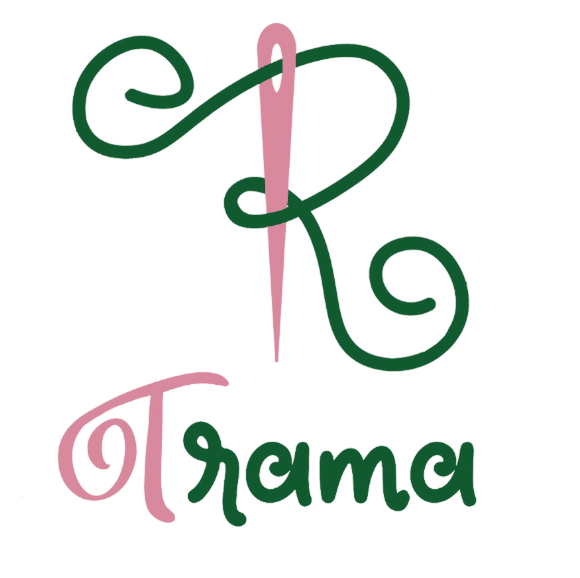
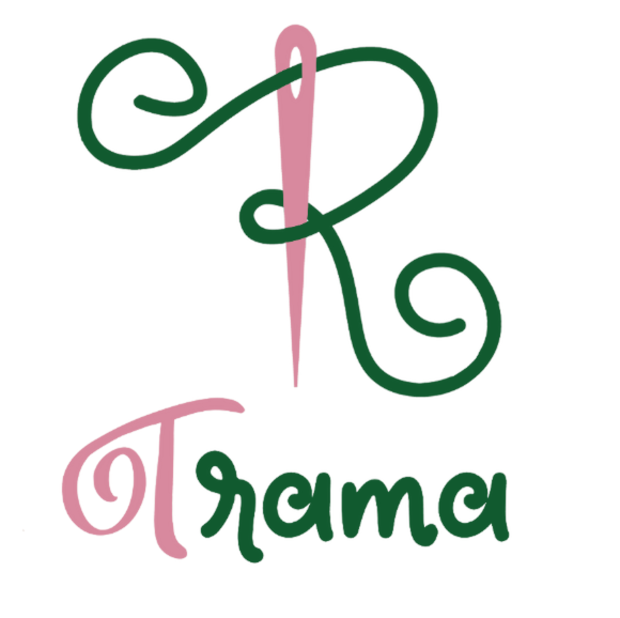
cores

diff --git a/app/templates/dashboard.html b/app/templates/dashboard.html
@@ -7,14 +7,13 @@
 {% block content %}
     <div class="container-fluid" style="min-height: 100vh; margin-top: 20px; display: flex; flex-direction: column;">
         <!-- Page Heading -->
-        <h1 class="welcome-title text-center" style="margin-top: 30px;">Bem-Vinda, Danielle</h1>
+        <h1 class="welcome-title text-center" style="margin-top: 10px;">Bem-Vinda, Danielle</h1>
 
         <!-- Grid com 2 seções -->
         <div class="row justify-content-center align-items-stretch" style="flex-grow: 1; background-color: transparent;">
             <!-- Seção do Calendário -->
-            <div class="col-lg-6 col-md-8 col-sm-12 mb-4 d-flex" style="background-color: transparent;">
+            <div class="col-lg-6 col-md-8 col-sm-12 mb-4 d-flex" style="background-color: #D98BA755; color: black;border-radius: 10px; border: none;padding: 0; max-height: 600px;overflow-y: auto;">
                 <div class="flex-grow-1" style="display: flex; flex-direction: column; height: 100%;">
-                    <h6 class="welcome-title-lower text-center" style="margin-top: 30px;">Calendário</h6>
                     <div class="card-body" style="flex-grow: 1; border: 1px solid #dee2e6; border-radius: 8px; box-shadow: 0 2px 10px rgba(0, 0, 0, 0.1);">
                         <div id="calendar" style="min-height: 500px;"></div>
                     </div>
@@ -24,13 +23,14 @@
             <!-- Seção da Tabela de Trabalhos com Expiração -->
             <div class="col-lg-6 col-md-8 col-sm-12 mb-4 d-flex" style="background-color: transparent;">
                 <div class="flex-grow-1" style="display: flex; flex-direction: column; height: 100%;">
-                    <h6 class="welcome-title-lower text-center" style="margin-top: 30px;">Relatório de Atividades</h6>
+                    
                     
                     <!-- Tornar a tabela clicável -->
                     <a href="{% url 'manguetown:gestao_trabalho' %}" style="display: flex; flex-grow: 1; text-decoration: none; color: inherit;">
                         <div class="card-body clickable-table" style="flex-grow: 1; min-height: 500px; overflow-y: auto; border: 1px solid #dee2e6; border-radius: 8px; box-shadow: 0 2px 10px rgba(0, 0, 0, 0.1);">
                             <table class="table">
-                                <thead class="corTabela">
+                                <h6 class="welcome-title-lower text-center" style="margin-top: 30px;">Relatório de Atividades</h6>
+                                <thead class="corTabelaDashboard">
                                     <tr>
                                         <th scope="col">Colaborador</th>
                                         <th scope="col">Boneca</th>
@@ -41,16 +41,16 @@
                                 <tbody>
                                     {% for trabalho in trabalhos %}
                                         <tr>
-                                            <td style="background-color: #EBCEB555; color: black;">
+                                            <td style="background-color: #D98BA755; color: black; border:1px solid #f5a3b5">
                                                 {% for colaborador in trabalho.colaboradores.all %}
                                                     <span>{{ colaborador.nome }}</span>{% if not forloop.last %}<br>{% endif %}
                                                 {% empty %}
                                                     Nenhum colaborador associado
                                                 {% endfor %}
                                             </td>
-                                            <td style="background-color: #EBCEB555; color: black;">{{ trabalho.boneca.nome }}</td>
-                                            <td style="background-color: #EBCEB555; color: black;">{{ trabalho.quantidade }}</td>
-                                            <td style="background-color: #EBCEB555; color: black;">{{ trabalho.data_previsao }}</td>    
+                                            <td style="background-color: white; color: black; border:1px solid #f5a3b5">{{ trabalho.boneca.nome }}</td>
+                                            <td style="background-color: white; color: black;border:1px solid #f5a3b5">{{ trabalho.quantidade }}</td>
+                                            <td style="background-color: white; color: black;border:1px solid #f5a3b5">{{ trabalho.data_previsao }}</td>    
                                         </tr>
                                     {% empty %}
                                         <tr>
@@ -89,6 +89,36 @@
             cursor: pointer;
             transform: scale(1.02); /* Efeito de aumento ao passar o mouse */
             box-shadow: 0 4px 15px rgba(0, 0, 0, 0.2); /* Sombra mais forte no hover */
+        }
+
+            /* Torna todos os textos do calendário pretos */
+            .fc-event,                /* Texto dos eventos */
+            .fc-daygrid-day-number,   /* Números dos dias */
+            .fc-toolbar-title,        /* Título do mês */
+            .fc-header-toolbar button, /* Botões do cabeçalho */
+            .fc-daygrid-event-dot,    /* Texto dos eventos compactados */
+            .fc-daygrid-day-top,      /* Cabeçalho do dia */
+            .fc-daygrid-day
+            .fc-col-header-cell,          
+            .fc-daygrid-day-events {  
+            color: black !important;
+        }
+
+        /* Botões e textos do cabeçalho */
+        .fc-header-toolbar button {
+            color: white !important;
+            border-color: black !important;
+        }
+
+        /* Dias inativos (fora do mês atual) */
+        .fc-day-other {
+            color: #6c757d !important; /* Cinza escuro para dias inativos */
+        }
+
+        /* Torna os textos dos dias da semana pretos */
+        .fc-col-header-cell,        /* Dias da semana no cabeçalho */
+        .fc-col-header-cell span {  /* Texto dentro do cabeçalho */
+            color: black !important;
         }
     </style>
 

diff --git a/app/templates/gestao_doadores.html b/app/templates/gestao_doadores.html
@@ -40,17 +40,17 @@
         <tbody>
             {% for doador in doadores %}
             <tr>
-                <td style="background-color: #EBCEB555; color: black;">{{ doador.nome }}</td>
-                <td style="background-color: #EBCEB555; color: black;">{{ doador.cpf }}</td>
-                <td style="background-color: #EBCEB555; color: black;">{{ doador.data_nascimento }}</td>
-                <td style="background-color: #EBCEB555; color: black;">{{ doador.lugar_onde_mora }}</td>
-                <td style="background-color: #EBCEB555; color: black;">{{ doador.individual|yesno:"Sim,Não" }}</td>
-                <td style="background-color: #EBCEB555; color: black;">{{ doador.tipo_doador }}</td>
-                <td style="background-color: #EBCEB555; color: black;">{{ doador.data_disponibilidade|default:"N/A" }}</td>
-                <td style="background-color: #EBCEB555; color: black;">{{ doador.local_captacao|default:"N/A" }}</td>
-                <td style="background-color: #EBCEB555; color: black;">{{ doador.condicao_residuo|default:"N/A" }}</td>
-                <td style="background-color: #EBCEB555; color: black;">{{ doador.tipo_residuo|default:"N/A" }}</td>
-                <td style="background-color: #EBCEB555; color: black;">
+                <td style="background-color: #EBCEB555; color: black;border:1px solid black">{{ doador.nome }}</td>
+                <td style="background-color: #EBCEB555; color: black;border:1px solid black">{{ doador.cpf }}</td>
+                <td style="background-color: #EBCEB555; color: black;border:1px solid black">{{ doador.data_nascimento }}</td>
+                <td style="background-color: #EBCEB555; color: black;border:1px solid black">{{ doador.lugar_onde_mora }}</td>
+                <td style="background-color: #EBCEB555; color: black;border:1px solid black">{{ doador.individual|yesno:"Sim,Não" }}</td>
+                <td style="background-color: #EBCEB555; color: black;border:1px solid black">{{ doador.tipo_doador }}</td>
+                <td style="background-color: #EBCEB555; color: black;border:1px solid black">{{ doador.data_disponibilidade|default:"N/A" }}</td>
+                <td style="background-color: #EBCEB555; color: black;border:1px solid black">{{ doador.local_captacao|default:"N/A" }}</td>
+                <td style="background-color: #EBCEB555; color: black;border:1px solid black">{{ doador.condicao_residuo|default:"N/A" }}</td>
+                <td style="background-color: #EBCEB555; color: black;border:1px solid black">{{ doador.tipo_residuo|default:"N/A" }}</td>
+                <td style="background-color: #EBCEB555; color: black;border:1px solid black">
                     <!-- Dropdown para ações -->
                     <select class="form-select action-select custom-select" data-doador-id="{{ doador.id }}">
                         <option value="">Escolha ação</option>

diff --git a/app/templates/gestao_colaboradores.html b/app/templates/gestao_colaboradores.html
@@ -41,16 +41,16 @@
             <tbody>
                 {% for colaborador in colaboradores %}
                 <tr>
-                    <td style="background-color: #EBCEB555; color: black;">{{ colaborador.nome }}</td>
-                    <td style="background-color: #EBCEB555; color: black;">{{ colaborador.cpf }}</td>
-                    <td style="background-color: #EBCEB555; color: black;">{{ colaborador.data_nascimento }}</td>
-                    <td style="background-color: #EBCEB555; color: black;">{{ colaborador.lugar_onde_mora }}</td>
-                    <td style="background-color: #EBCEB555; color: black;">{{ colaborador.renda }}</td>
-                    <td style="background-color: #EBCEB555; color: black;">{{ colaborador.situacoes_de_vulnerabilidade }}</td>
-                    <td style="background-color: #EBCEB555; color: black;">{{ colaborador.quantos_filhos }}</td>
-                    <td style="background-color: #EBCEB555; color: black;">{{ colaborador.quantas_pessoas_moram_com_voce }}</td>
-                    <td style="background-color: #EBCEB555; color: black;">{{ colaborador.habilidades }}</td>
-                    <td style="background-color: #EBCEB555; color: black;"> 
+                    <td style="background-color: #EBCEB555; color: black;border:1px solid black">{{ colaborador.nome }}</td>
+                    <td style="background-color: #EBCEB555; color: black;border:1px solid black">{{ colaborador.cpf }}</td>
+                    <td style="background-color: #EBCEB555; color: black;border:1px solid black">{{ colaborador.data_nascimento }}</td>
+                    <td style="background-color: #EBCEB555; color: black;border:1px solid black">{{ colaborador.lugar_onde_mora }}</td>
+                    <td style="background-color: #EBCEB555; color: black;border:1px solid black">{{ colaborador.renda }}</td>
+                    <td style="background-color: #EBCEB555; color: black;border:1px solid black">{{ colaborador.situacoes_de_vulnerabilidade }}</td>
+                    <td style="background-color: #EBCEB555; color: black;border:1px solid black">{{ colaborador.quantos_filhos }}</td>
+                    <td style="background-color: #EBCEB555; color: black;border:1px solid black">{{ colaborador.quantas_pessoas_moram_com_voce }}</td>
+                    <td style="background-color: #EBCEB555; color: black;border:1px solid black">{{ colaborador.habilidades }}</td>
+                    <td style="background-color: #EBCEB555; color: black;border:1px solid black"> 
                         <!-- Dropdown para ações -->
                         <select class="form-select action-select custom-select" data-colaborador-id="{{ colaborador.id }}">
                             <option value="">Escolha ação</option>

diff --git a/app/templates/login.html b/app/templates/login.html
@@ -36,17 +36,21 @@
             height: 170px;
             width: 170px;
             top: -75px;
-            border-radius: 50%;
-            background: white;
-            padding: 10px;
+            border-radius: 100%;
+            background: #D98BA755;
+            padding: 14px;
             text-align: center;
+            opacity: 1 !important;
         }
         .brand_logo {
-            height: 150px;
-            width: 150px;
+            height: calc(100% + 28px); /* Subtraia a espessura da borda */
+            width: calc(100% + 28px);
             border-radius: 50%;
-            border: 2px solid white;
-            
+            border: 8px solid white;
+            margin-top: -14px; /* Ajusta o alinhamento vertical */
+            margin-left: -14px; /* Ajusta o alinhamento horizontal */
+            object-fit: contain; /* Ajusta a imagem dentro do círculo */
+            opacity: 1 !important;
         }
         .form_container {
             margin-top: 15px;
@@ -61,28 +65,30 @@
         }
         .login_btn {
             width: 100%;
-            background: #c0392b !important;
-            color: white !important;
+            background: #D98BA755; !important;
+            color: black !important;
         }
         .login_btn:focus {
             box-shadow: none !important;
             outline: 0px !important;
+            
         }
         .login_container {
             padding: 0 3rem;
         }
         .input-group-text {
-            background: #c0392b !important;
-            color: white !important;
+            color: black !important;
             border: 0 !important;
             border-radius: 0.25rem 0 0 0.25rem !important;
+            background-color:#D98BA755 !important;
         }
-        .input_user, .input_pass:focus {
+        .input_user, .input_pass, .input_pass:focus {
             box-shadow: none !important;
             outline: 0px !important;
+            background-color:#D98BA755 !important;
         }
         .custom-checkbox .custom-control-input:checked~.custom-control-label::before {
-            background-color: #c0392b !important;
+            background-color: #D98BA755 !important;
         }
         .message-container {
             text-align: center;
@@ -113,7 +119,7 @@
                 <div class="d-flex justify-content-center">
                     <div class="brand_logo_container">
                         {% load static %}
-                        <img src="{% static 'tr.png' %}" class="brand_logo" alt="Logo">
+                        <img src="{% static 'trama-logo.png' %}" class="brand_logo" alt="Logo">
                     </div>
                 </div><br>
                 <h2 class="login-title">Login</h2>

diff --git a/app/templates/gestao_empresas.html b/app/templates/gestao_empresas.html
@@ -37,14 +37,14 @@
         <tbody>
             {% for empresa in empresas %}
             <tr>
-                <td style="background-color: #EBCEB555; color: black;">{{ empresa.nome_responsavel }}</td>
-                <td style="background-color: #EBCEB555; color: black;">{{ empresa.nome_empresa }}</td>
-                <td style="background-color: #EBCEB555; color: black;">{{ empresa.captacao_local }}</td>
-                <td style="background-color: #EBCEB555; color: black;">{{ empresa.disponibilidade_residuo }}</td>
-                <td style="background-color: #EBCEB555; color: black;">{{ empresa.porte_fabrico }}</td>
-                <td style="background-color: #EBCEB555; color: black;">{{ empresa.tipo_residuo }}</td>
-                <td style="background-color: #EBCEB555; color: black;">{{ empresa.condicao_residuo }}</td>
-                <td style="background-color: #EBCEB555; color: black;">
+                <td style="background-color: #EBCEB555; color: black;border:1px solid black">{{ empresa.nome_responsavel }}</td>
+                <td style="background-color: #EBCEB555; color: black;border:1px solid black">{{ empresa.nome_empresa }}</td>
+                <td style="background-color: #EBCEB555; color: black;border:1px solid black">{{ empresa.captacao_local }}</td>
+                <td style="background-color: #EBCEB555; color: black;border:1px solid black">{{ empresa.disponibilidade_residuo }}</td>
+                <td style="background-color: #EBCEB555; color: black;border:1px solid black">{{ empresa.porte_fabrico }}</td>
+                <td style="background-color: #EBCEB555; color: black;border:1px solid black">{{ empresa.tipo_residuo }}</td>
+                <td style="background-color: #EBCEB555; color: black;border:1px solid black">{{ empresa.condicao_residuo }}</td>
+                <td style="background-color: #EBCEB555; color: black;border:1px solid black">
                     <!-- Dropdown para ações -->
                     <select class="form-select action-select custom-select " data-empresa-id="{{ empresa.id }}">
                         <option value="">Escolha ação</option>

diff --git a/app/templates/gestao_trabalho.html b/app/templates/gestao_trabalho.html
@@ -57,20 +57,20 @@
             <tbody>
                 {% for trabalho in trabalhos %}
                 <tr>
-                    <td style="background-color: #EBCEB555; color: black;">
+                    <td style="background-color: #EBCEB555; color: black;border:1px solid black">
                         {% for colaborador in trabalho.colaboradores.all %}
                             <span>{{ colaborador.nome }}</span>{% if not forloop.last %}<br>{% endif %}
                         {% empty %}
                             Nenhum colaborador associado
                         {% endfor %}
                     </td>
-                    <td style="background-color: #EBCEB555; color: black;">{{ trabalho.boneca.nome }}</td>
-                    <td style="background-color: #EBCEB555; color: black;">{{ trabalho.quantidade }}</td>
-                    <td style="background-color: #EBCEB555; color: black;">{{ trabalho.data_previsao }}</td>
+                    <td style="background-color: #EBCEB555; color: black;border:1px solid black">{{ trabalho.boneca.nome }}</td>
+                    <td style="background-color: #EBCEB555; color: black;border:1px solid black">{{ trabalho.quantidade }}</td>
+                    <td style="background-color: #EBCEB555; color: black;border:1px solid black">{{ trabalho.data_previsao }}</td>
                     {% if filtro == 'concluido' %}
-                        <td>{{ trabalho.data_conclusao|date:"d/m/Y" }}</td>
+                        <td style="background-color: #EBCEB555; color: black;border:1px solid black">{{ trabalho.data_conclusao|date:"d/m/Y" }}</td>
                     {% endif %}
-                    <td style="background-color: #EBCEB555; color: black;">
+                    <td style="background-color: #EBCEB555; color: black;border:1px solid black">
                         {% if trabalho.status == 'concluido' %}
                             <select class="form-select action-select custom-select" data-trabalho-id="{{ trabalho.id }}">
                                 <option value="">Escolha ação</option>

diff --git a/app/templates/gestao_bonecas.html b/app/templates/gestao_bonecas.html
@@ -36,9 +36,9 @@
             <tbody>
                 {% for boneca in bonecas %}
                     <tr>
-                        <td style="background-color: #EBCEB555; color: black;">{{ boneca.nome }}</td>
-                        <td style="background-color: #EBCEB555; color: black;">{{ boneca.nivel_dificuldade }}</td>
-                        <td class="text-end" style="background-color: #EBCEB555; color: black;"> <!-- Adicionando a classe text-end para as células de ação -->
+                        <td style="background-color: #EBCEB555; color: black;border:1px solid black">{{ boneca.nome }}</td>
+                        <td style="background-color: #EBCEB555; color: black;border:1px solid black">{{ boneca.nivel_dificuldade }}</td>
+                        <td class="text-end" style="background-color: #EBCEB555; color: black;border:1px solid black"> <!-- Adicionando a classe text-end para as células de ação -->
                             <select class="form-select action-select custom-select" data-boneca-id="{{ boneca.id }}">
                                 <option value="">Escolha ação</option>
                                 <option value="editar">Editar</option>

diff --git a/app/templates/relatorios.html b/app/templates/relatorios.html
@@ -83,8 +83,8 @@
                             {{ item.quantidade_bonecas }}{% if not forloop.last %},{% endif %}
                         {% endfor %}
                     ],
-                    backgroundColor: 'rgb(17, 90, 47, 0.33)',
-                    borderColor: 'rgb(17, 90, 47, 0.33)',
+                    backgroundColor: 'rgb(17, 90, 47, 0.55)',
+                    borderColor: 'rgb(17, 90, 47, 0.55)',
                     borderWidth: 1
                 }]
             },
@@ -121,8 +121,8 @@
                             {{ item.pontos }}{% if not forloop.last %},{% endif %}
                         {% endfor %}
                     ],
-                    backgroundColor: 'rgb(17, 90, 47, 0.33)',
-                    borderColor: 'rgb(17, 90, 47, 0.33)',
+                    backgroundColor: 'rgb(17, 90, 47, 0.55)',
+                    borderColor: 'rgb(17, 90, 47, 0.55)',
                     borderWidth: 1
                 }]
             },

diff --git a/app/templates/base.html b/app/templates/base.html
@@ -118,10 +118,25 @@
         }
         .corTabela{
             background-color: #B0C8BA;
+            border:1px solid black;
+            border-collapse: separate;
         }
-        .corTabela tr {
+        .corTabela th, .corTabela thead {
+            color: black; 
+            border:1px solid black;
+            border-collapse: separate;
+        }
+
+        .corTabelaDashboard{
+            background-color: #c55b7e;
+            border:1px solid #f5a3b5
+        }
+        .corTabelaDashboard tr {
             color: black; 
         }
+
+
+        
     
     </style>
 

diff --git a/app/static/css/style.css b/app/static/css/style.css
@@ -303,6 +303,8 @@ table td {
     margin-bottom: 15px; /* Margem inferior para espaçamento */
 }
 
+
+
 input.form-control {
     width: 100%; /* Largura total para os campos de entrada */
     padding: 10px; /* Espaçamento interno */
@@ -362,5 +364,7 @@ input.form-control {
     background-color: #dc3545;
     color: white;
 }
+
+
 
 
